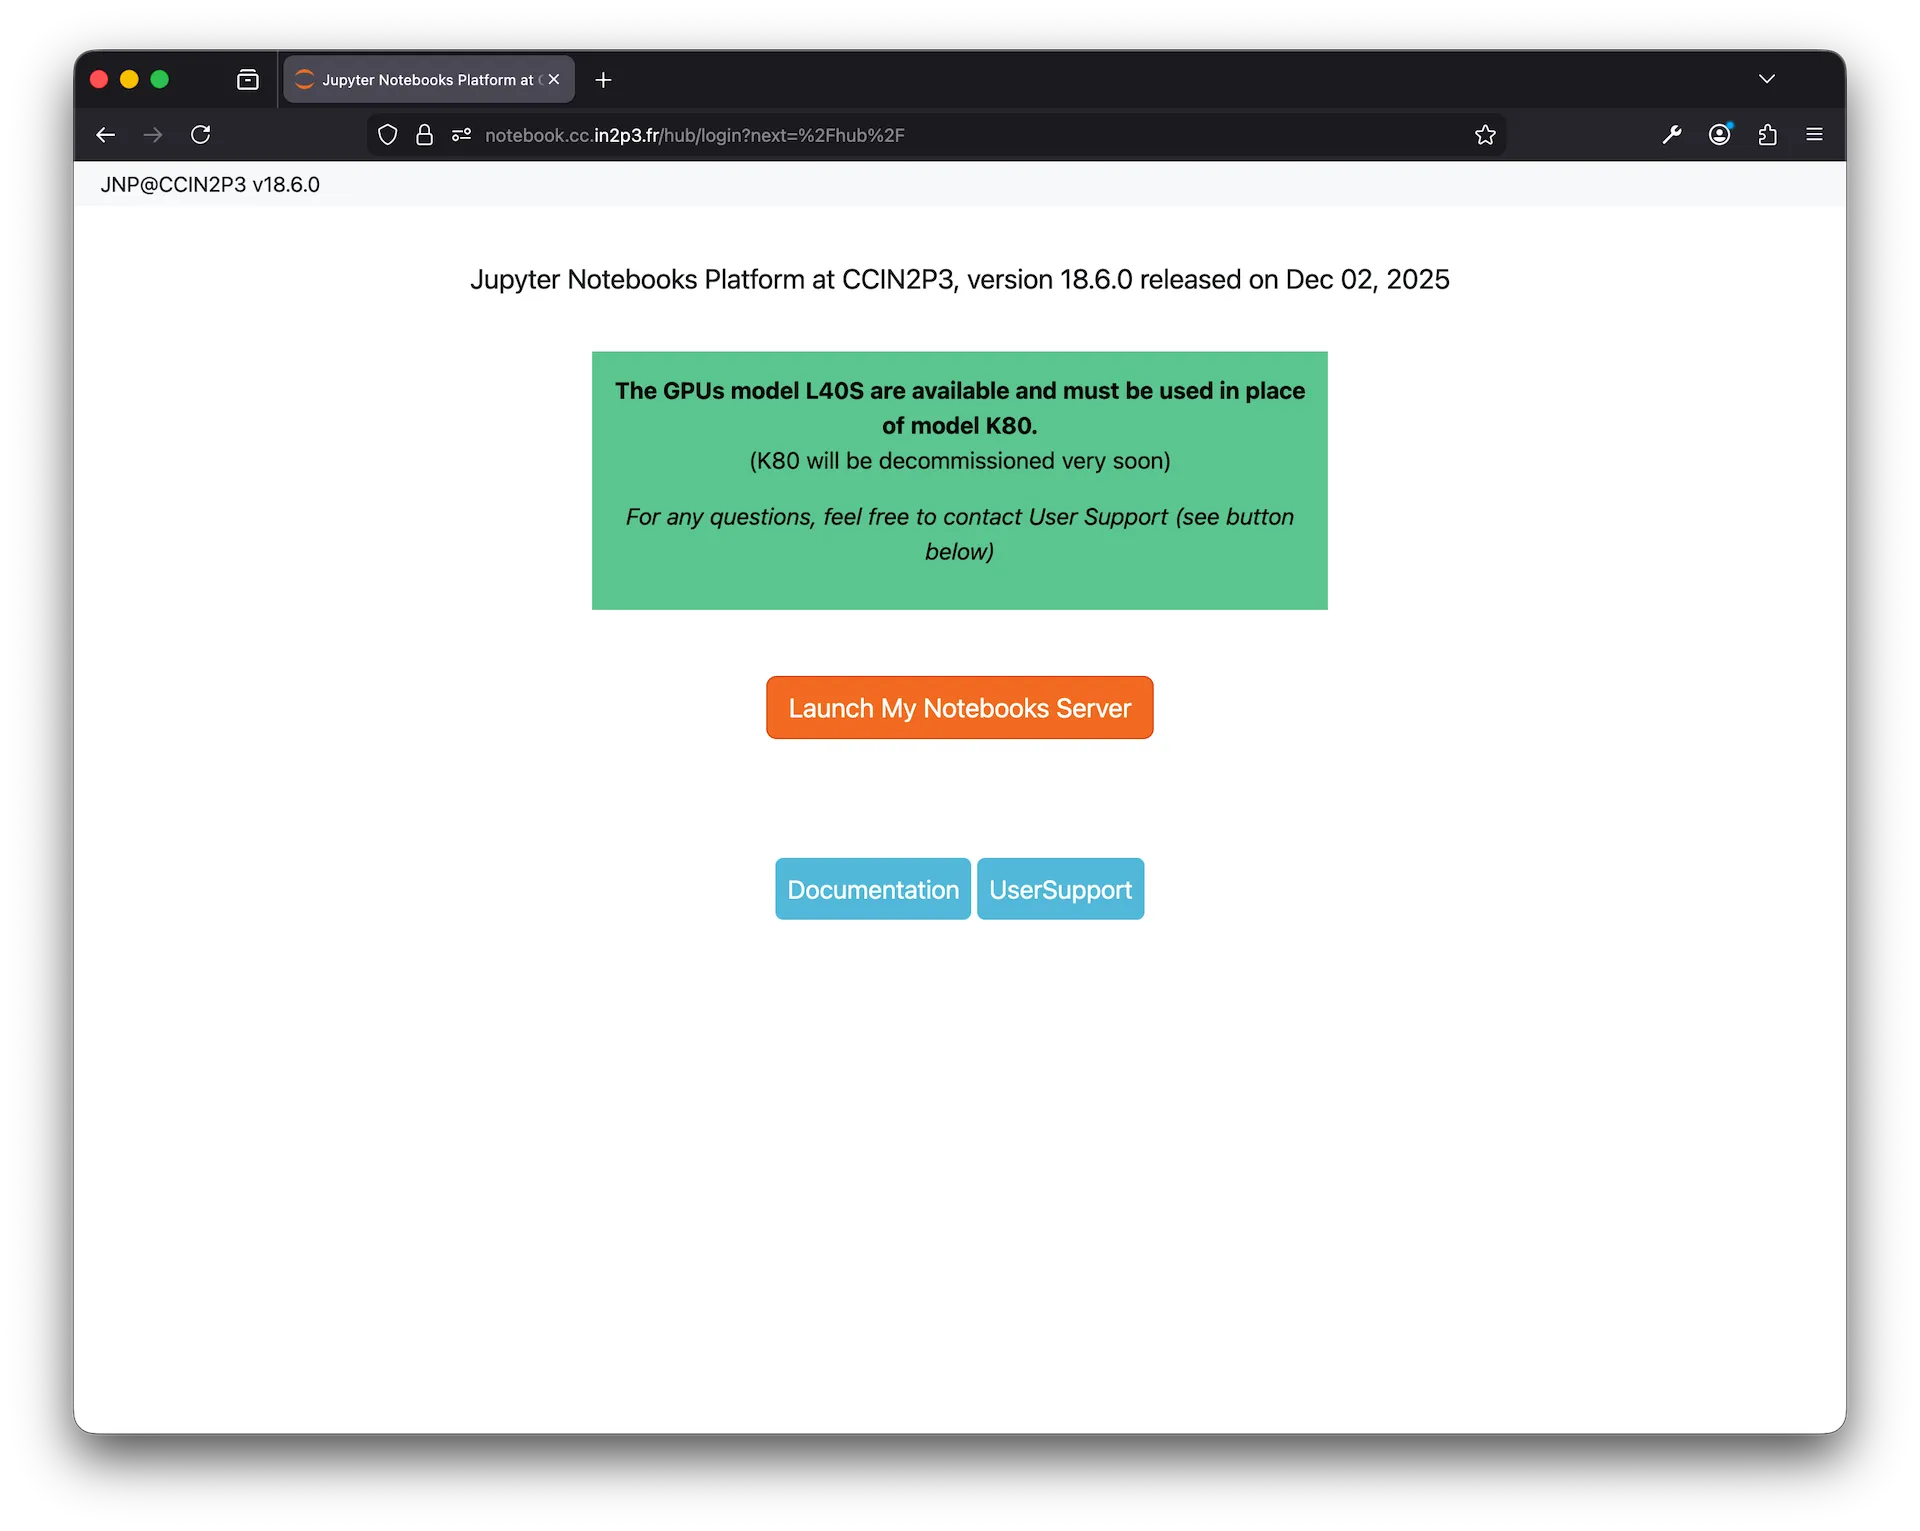
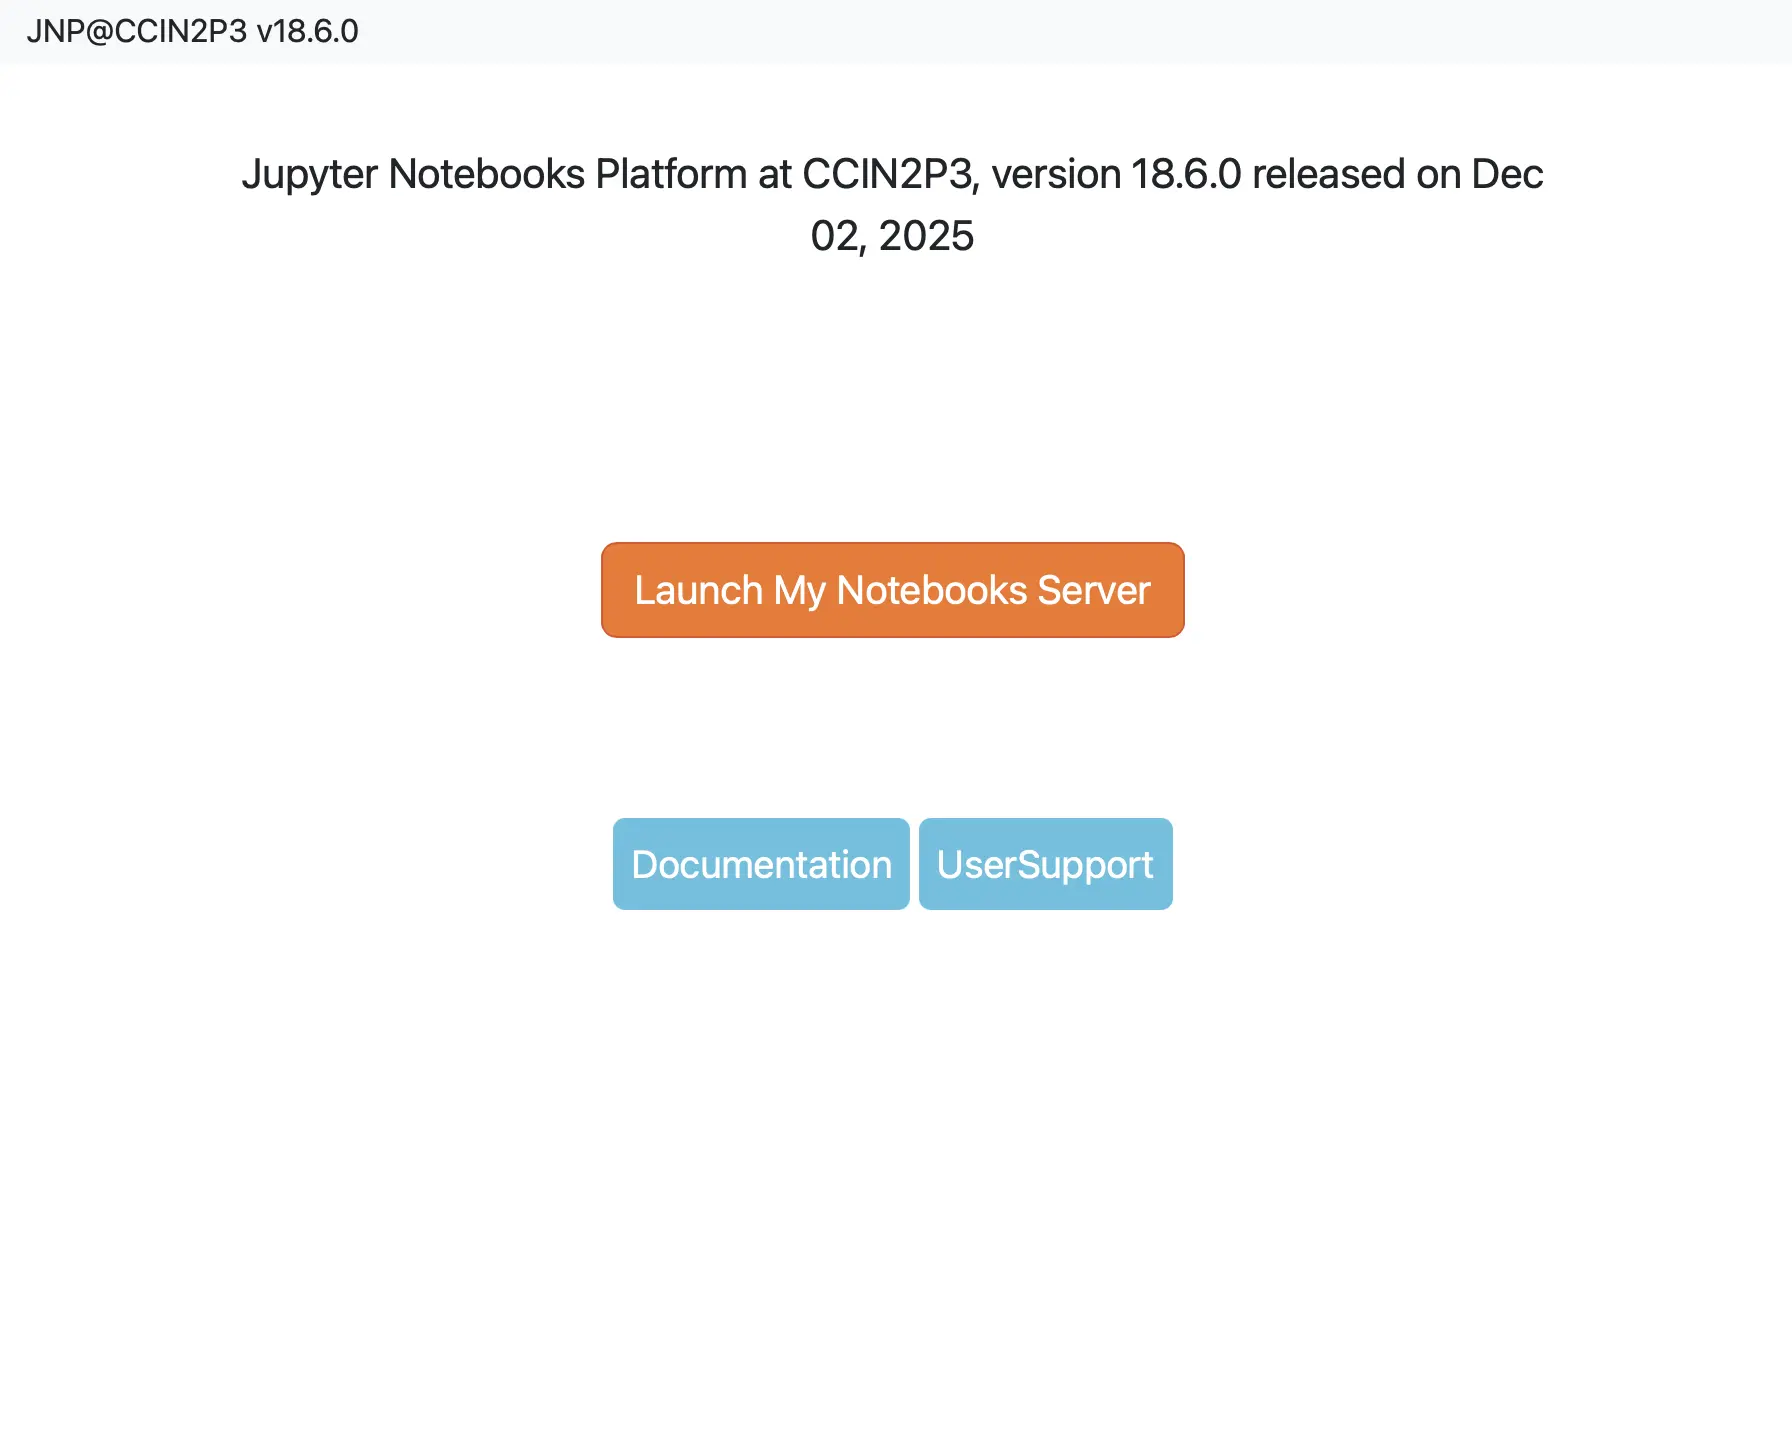
wip

Changed region(s): [[0.0, 0.0, 1.0, 0.9959], [0.2812, 0.2178, 0.7188, 0.4979], [0.3438, 0.5602, 0.6562, 0.6535]]

diff --git a/cc/README.md b/cc/README.md
@@ -16,6 +16,8 @@ Vous obtenez alors l'écran principal de la plateforme Jupyter
 
 # A faire après la première connexion
 
+C'est le moment de vous [créer un compte GitHub](https://fr.wikihow.com/créer-un-compte-sur-GitHub)...
+
 Aller dans le menu `Git -> Clone a Repository` et entrez l'adresse du dépot git qui contient le point de départ de ce projet :
 
 ```shell
@@ -30,6 +32,16 @@ Notez qu'un répertoire `qqbar2mumu-2025` devrait apparaître dans la partie gau
 
 ![](cc-jupyter-first-notebook.webp)
 
+Cliquez ensuite sur "Terminal" et exécutez la commande suivante :
+
+```shell
+mkdir -p "$HOME/.local/share/jupyter/kernels/qqbar2mumu-2025" && printf '%s\n' '{' '        "display_name": "M2 RPS EXP (2025)",' '        "language": "Python With ROOT",' '        "argv":[' '                "/pbs/throng/training/nantes-m2-rps-exp/qqbar2mumu-2025/python-helper.sh",' '                "-f",' '                "{connection_file}"' '        ]' '}' > "$HOME/.local/share/jupyter/kernels/qqbar2mumu-2025/kernel.json"
+
+```
+
+Déconnectez-vous (File->Log Out) et reconnectez-vous. Vous devriez maintenant voir un nouvel élément sous Notebook, vous permettant de créer un notebook avec le noyau "M2 RPS EXP (2025)", qui sera utilisé pour vos notebooks tout au long de ce projet.
+
 Enfin, modifiez le mot de passe temporaire qui vous a été fourni pour votre accès au CC-IN2P3, en vous connectant au [portail d'identité](https://id.cc.in2p3.fr) et en cliquant sur "Changement de mot de passe".
 
 ![](cc-portail-identite.webp)
+
